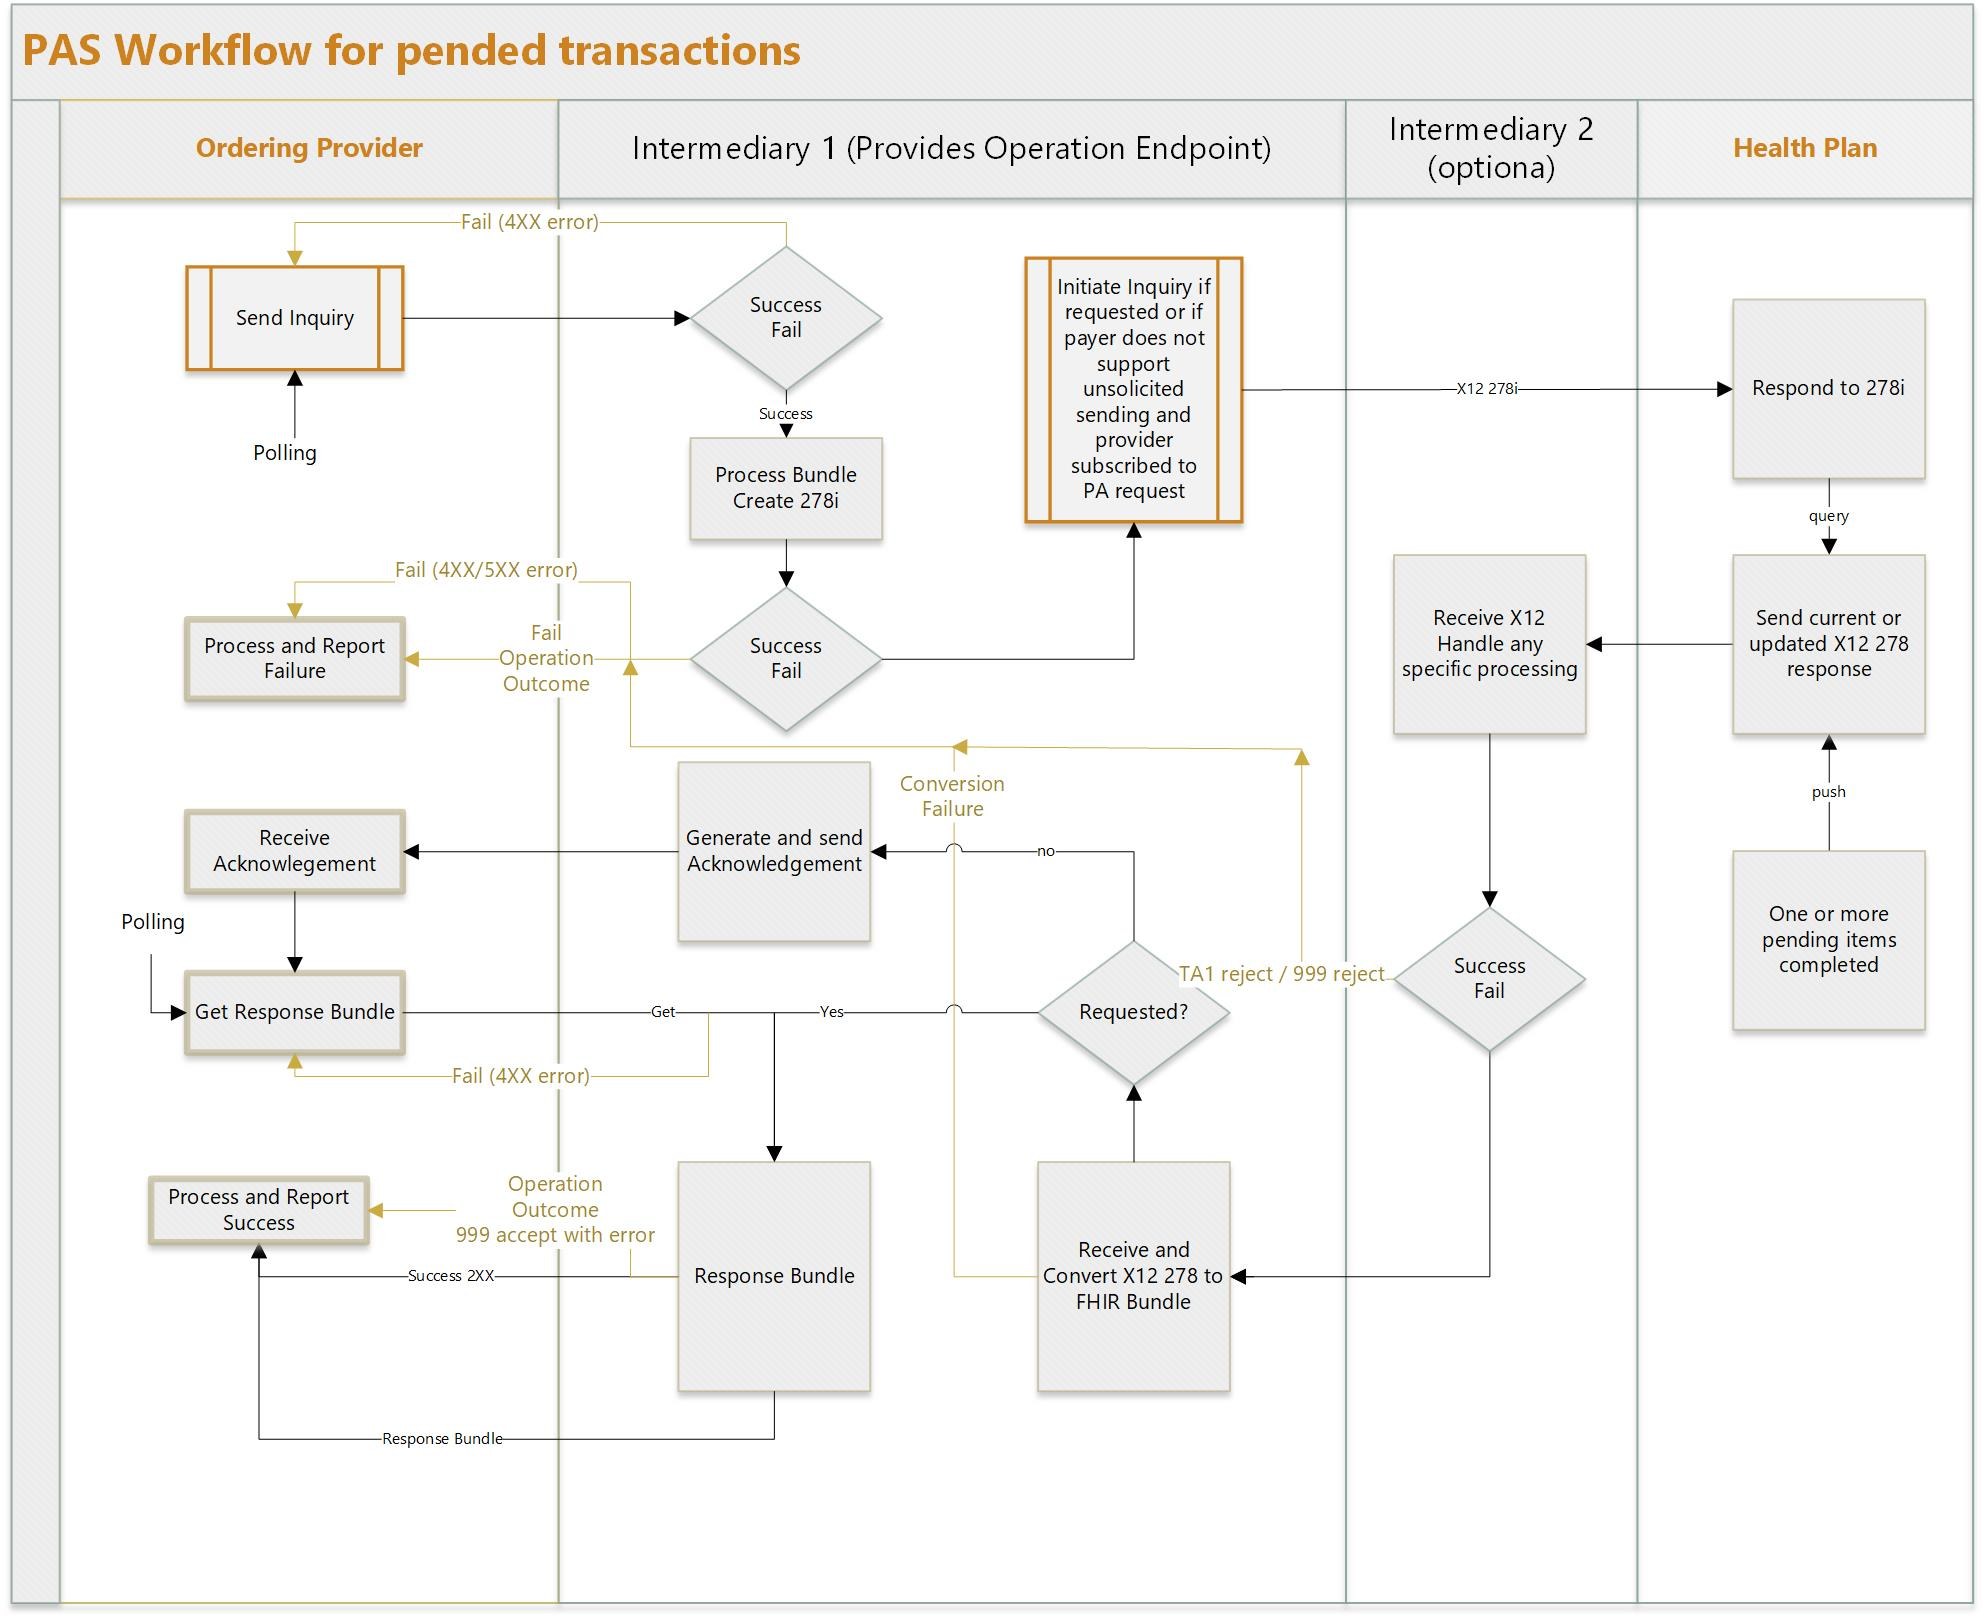
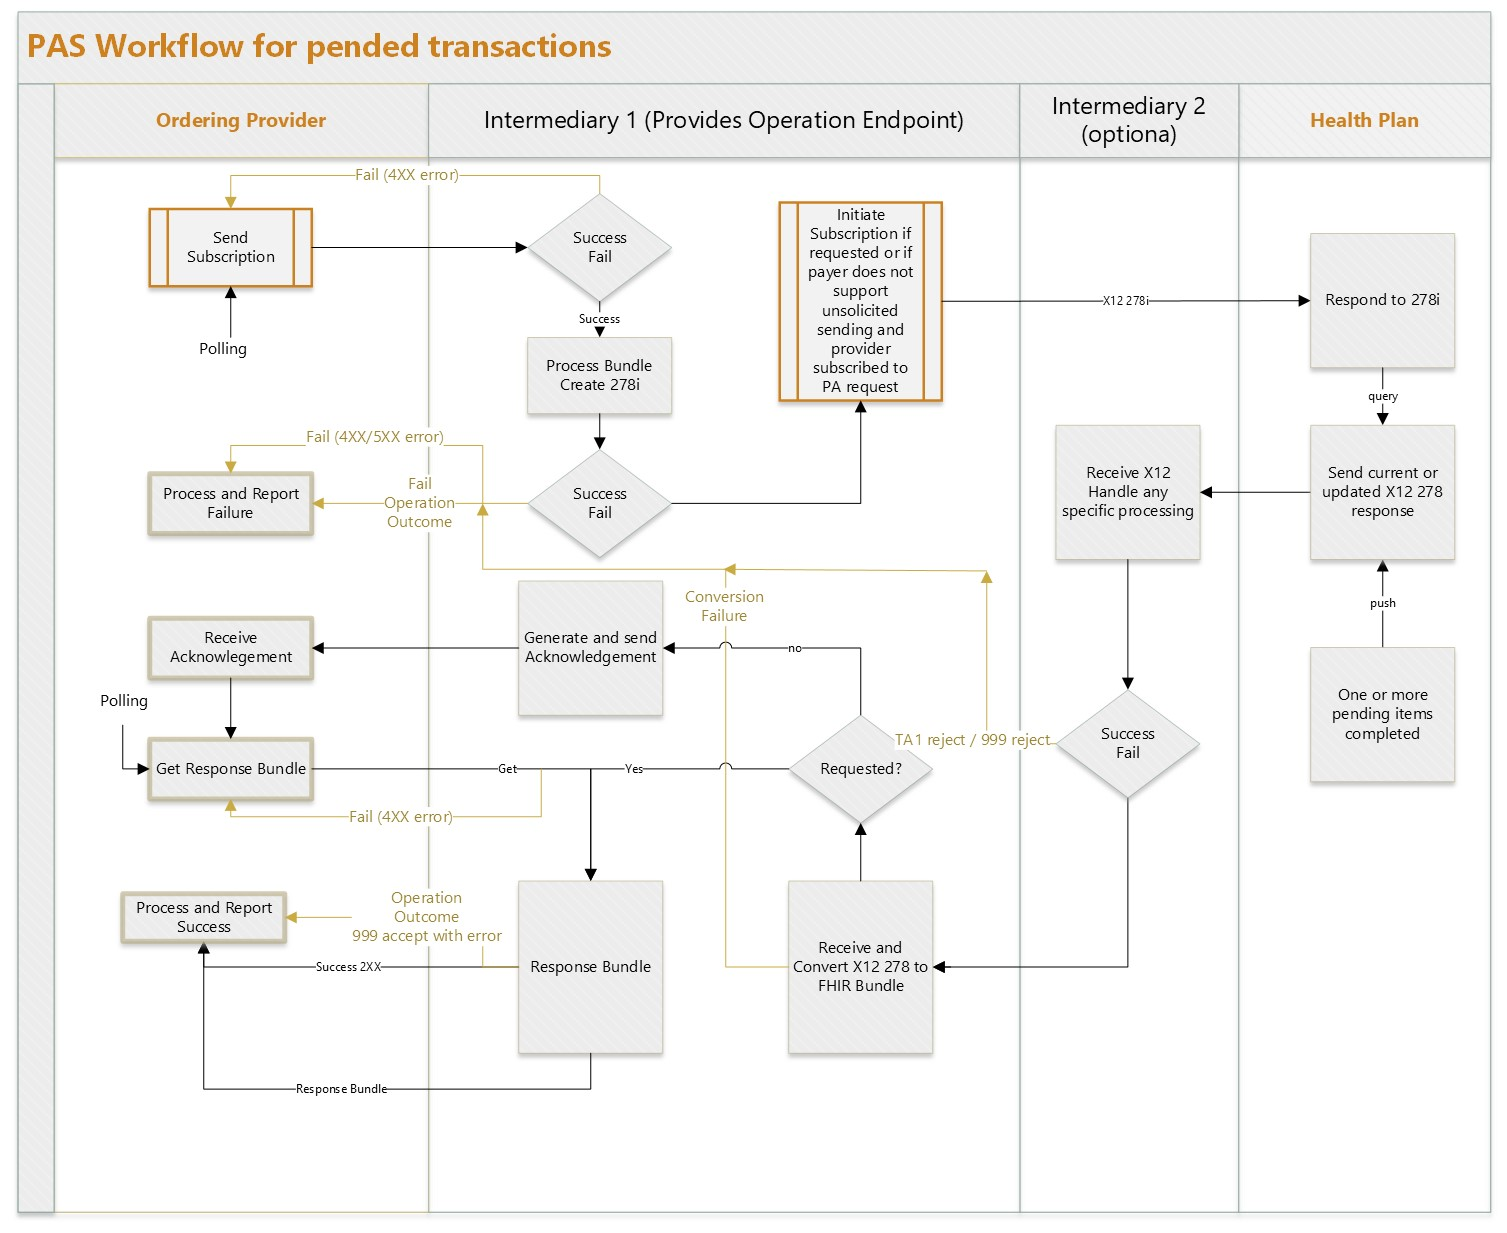
FHIR-58486

diff --git a/input/pagecontent/specification.md b/input/pagecontent/specification.md
@@ -41,7 +41,7 @@ The primary interaction supported by this implementation guide is submitting a p
 {::options parse_block_html="false" /}
 <figure>
   <img style="padding-top:0;padding-bottom:30px" width="800px" src="pas-content.png" alt="PAS Bundle Content"/>
-  <figcaption>Figure 5.1 - PAS Bundle Content</figcaption>
+  <figcaption>Figure 7.1 - PAS Bundle Content</figcaption>
 </figure>
 {::options parse_block_html="true" /}
 
@@ -56,8 +56,8 @@ In the event that the prior authorization cannot be evaluated and a final respon
 
 {::options parse_block_html="false" /}
 <figure>
-  <img style="padding-top:0;padding-bottom:30px" width="800px" src="pas_sequence_diagram.png" alt="PAS Submission Sequence Diagram"/>
-  <figcaption>Figure 5.2 - PAS Submission Sequence</figcaption>
+  <div>{%include pas_sequence_diagram.svg%}</div>
+  <figcaption>Figure 7.2 - PAS Submission Sequence</figcaption>
 </figure>
 {::options parse_block_html="true" /}
 
@@ -171,14 +171,14 @@ Here are two workflow diagrams that show the sending of a request, the receiving
 {::options parse_block_html="false" /}
 <figure>
   <img style="padding-top:0;padding-bottom:30px" width="800px" src="pas-error-twointermediaries.jpg" alt="PAS Two Intermediaries Workflow"/>
-  <figcaption>Figure 5.3 - PAS Workflow with Two Intermediaries</figcaption>
+  <figcaption>Figure 7.3 - PAS Workflow with Two Intermediaries</figcaption>
 </figure>
 {::options parse_block_html="true" /}
 
 {::options parse_block_html="false" /}
 <figure>
   <img style="padding-top:0;padding-bottom:30px" width="800px" src="pas-error-after-pend.jpg" alt="PAS Pended Transactions Workflow"/>
-  <figcaption>Figure 5.4 - PAS Workflow for pended transactions</figcaption>
+  <figcaption>Figure 7.4 - PAS Workflow for pended transactions</figcaption>
 </figure>
 {::options parse_block_html="true" /}
 
